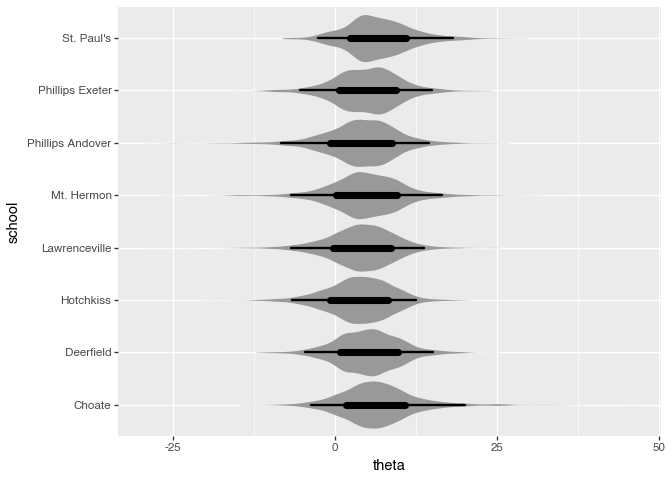
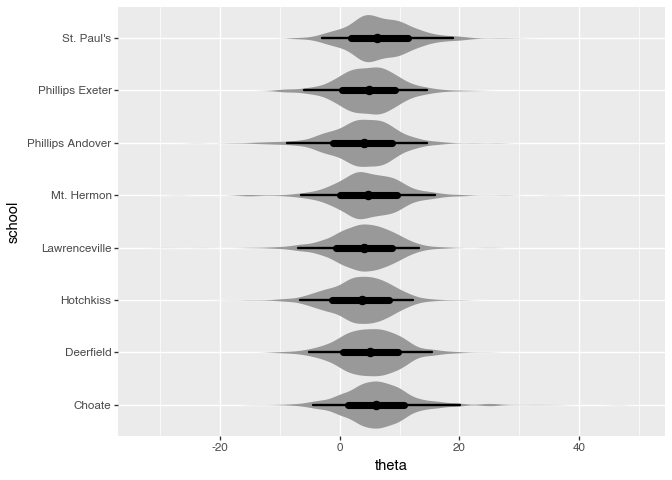
update notebook

diff --git a/notebook.md b/notebook.md
@@ -1,0 +1,264 @@
+# bayestidy demo
+
+``` python
+import arviz as az
+import bayestidy as bt
+from plotnine import *
+```
+
+## Load data
+
+ArviZ ships pre-fitted models. The “eight schools” dataset has a
+hierarchical model with school-level effects `theta`, a shared mean
+`mu`, and scale `tau`.
+
+``` python
+data = az.load_arviz_data("centered_eight")
+```
+
+## Extract tidy draws
+
+`spread_draws` gives one row per draw, with index columns for array
+parameters.
+
+``` python
+draws = bt.spread_draws(data, "theta[school]", "mu", "tau")
+draws.head(10)
+```
+
+<div><style>
+.dataframe > thead > tr,
+.dataframe > tbody > tr {
+  text-align: right;
+  white-space: pre-wrap;
+}
+</style>
+<small>shape: (10, 6)</small>
+
+| .chain | .draw | school             | theta     | mu       | tau      |
+|--------|-------|--------------------|-----------|----------|----------|
+| i64    | i64   | str                | f64       | f64      | f64      |
+| 0      | 0     | "Choate"           | 12.320686 | 7.871796 | 4.72574  |
+| 0      | 0     | "Deerfield"        | 9.905367  | 7.871796 | 4.72574  |
+| 0      | 0     | "Phillips Andover" | 14.951615 | 7.871796 | 4.72574  |
+| 0      | 0     | "Phillips Exeter"  | 11.011485 | 7.871796 | 4.72574  |
+| 0      | 0     | "Hotchkiss"        | 5.579602  | 7.871796 | 4.72574  |
+| 0      | 0     | "Lawrenceville"    | 16.901795 | 7.871796 | 4.72574  |
+| 0      | 0     | "St. Paul's"       | 13.198059 | 7.871796 | 4.72574  |
+| 0      | 0     | "Mt. Hermon"       | 15.061366 | 7.871796 | 4.72574  |
+| 0      | 1     | "Choate"           | 11.285623 | 3.384554 | 3.908994 |
+| 0      | 1     | "Deerfield"        | 9.129324  | 3.384554 | 3.908994 |
+
+</div>
+
+`gather_draws` gives long format — handy for comparing variables.
+
+``` python
+long = bt.gather_draws(data, "mu", "tau")
+long.head(10)
+```
+
+<div><style>
+.dataframe > thead > tr,
+.dataframe > tbody > tr {
+  text-align: right;
+  white-space: pre-wrap;
+}
+</style>
+<small>shape: (10, 4)</small>
+
+| .chain | .draw | .variable | .value    |
+|--------|-------|-----------|-----------|
+| i64    | i64   | str       | f64       |
+| 0      | 0     | "mu"      | 7.871796  |
+| 0      | 1     | "mu"      | 3.384554  |
+| 0      | 2     | "mu"      | 9.100476  |
+| 0      | 3     | "mu"      | 7.304293  |
+| 0      | 4     | "mu"      | 9.879675  |
+| 0      | 5     | "mu"      | 7.042032  |
+| 0      | 6     | "mu"      | 10.378469 |
+| 0      | 7     | "mu"      | 10.060016 |
+| 0      | 8     | "mu"      | 10.425308 |
+| 0      | 9     | "mu"      | 10.810782 |
+
+</div>
+
+## Point estimates and intervals
+
+``` python
+bt.median_qi(draws, "theta", by="school", width=[0.66, 0.95])
+```
+
+<div><style>
+.dataframe > thead > tr,
+.dataframe > tbody > tr {
+  text-align: right;
+  white-space: pre-wrap;
+}
+</style>
+<small>shape: (16, 7)</small>
+
+| school             | theta    | .lower    | .upper    | .width | .point   | .interval |
+|--------------------|----------|-----------|-----------|--------|----------|-----------|
+| str                | f64      | f64       | f64       | f64    | str      | str       |
+| "Choate"           | 6.08171  | 1.590788  | 10.787866 | 0.66   | "median" | "qi"      |
+| "Choate"           | 6.08171  | -3.812485 | 20.063309 | 0.95   | "median" | "qi"      |
+| "Deerfield"        | 5.010779 | 0.729276  | 9.639297  | 0.66   | "median" | "qi"      |
+| "Deerfield"        | 5.010779 | -4.64327  | 15.12579  | 0.95   | "median" | "qi"      |
+| "Phillips Andover" | 4.226613 | -0.755306 | 8.81296   | 0.66   | "median" | "qi"      |
+| …                  | …        | …         | …         | …      | …        | …         |
+| "Lawrenceville"    | 4.136356 | -6.912898 | 13.661674 | 0.95   | "median" | "qi"      |
+| "St. Paul's"       | 6.065121 | 2.223271  | 10.942636 | 0.66   | "median" | "qi"      |
+| "St. Paul's"       | 6.065121 | -2.676971 | 18.19456  | 0.95   | "median" | "qi"      |
+| "Mt. Hermon"       | 4.705673 | 0.040535  | 9.463309  | 0.66   | "median" | "qi"      |
+| "Mt. Hermon"       | 4.705673 | -6.781987 | 16.494705 | 0.95   | "median" | "qi"      |
+
+</div>
+
+``` python
+bt.median_qi(draws, "mu", width=[0.66, 0.95])
+```
+
+<div><style>
+.dataframe > thead > tr,
+.dataframe > tbody > tr {
+  text-align: right;
+  white-space: pre-wrap;
+}
+</style>
+<small>shape: (2, 6)</small>
+
+| mu       | .lower    | .upper    | .width | .point   | .interval |
+|----------|-----------|-----------|--------|----------|-----------|
+| f64      | f64       | f64       | f64    | str      | str       |
+| 4.547775 | 1.099583  | 7.872792  | 0.66   | "median" | "qi"      |
+| 4.547775 | -2.260603 | 10.746161 | 0.95   | "median" | "qi"      |
+
+</div>
+
+## Half-eye plots
+
+The flagship visualization — density slab + point + intervals, directly
+from raw draws.
+
+``` python
+(
+    ggplot(draws, aes(x="theta", y="school", fill="school"))
+    + bt.stat_halfeye(alpha=0.5)
+    + labs(x="theta", y="school")
+)
+```
+
+![](notebook_files/figure-commonmark/cell-8-output-1.png)
+
+## Eye plots
+
+Mirrored density (violin-style) + point + intervals.
+
+``` python
+(
+    ggplot(draws, aes(x="theta", y="school"))
+    + bt.stat_eye()
+    + labs(x="theta", y="school")
+)
+```
+
+![](notebook_files/figure-commonmark/cell-9-output-1.png)
+
+## Point-interval plots
+
+Just the point estimate and nested credible intervals, no density.
+
+``` python
+(
+    ggplot(draws, aes(x="theta", y="school"))
+    + bt.stat_pointinterval()
+    + labs(x="theta", y="school")
+)
+```
+
+![](notebook_files/figure-commonmark/cell-10-output-1.png)
+
+## Interval plots
+
+Nested intervals only.
+
+``` python
+(
+    ggplot(draws, aes(x="theta", y="school"))
+    + bt.stat_interval()
+    + labs(x="theta", y="school")
+)
+```
+
+![](notebook_files/figure-commonmark/cell-11-output-1.png)
+
+## Pre-summarized data with geom_pointinterval
+
+If you’ve already computed summaries with `point_interval`, use the geom
+variants directly.
+
+``` python
+summary = bt.median_qi(draws, "theta", by="school", width=[0.66, 0.95])
+summary
+```
+
+<div><style>
+.dataframe > thead > tr,
+.dataframe > tbody > tr {
+  text-align: right;
+  white-space: pre-wrap;
+}
+</style>
+<small>shape: (16, 7)</small>
+
+| school             | theta    | .lower    | .upper    | .width | .point   | .interval |
+|--------------------|----------|-----------|-----------|--------|----------|-----------|
+| str                | f64      | f64       | f64       | f64    | str      | str       |
+| "Choate"           | 6.08171  | 1.590788  | 10.787866 | 0.66   | "median" | "qi"      |
+| "Choate"           | 6.08171  | -3.812485 | 20.063309 | 0.95   | "median" | "qi"      |
+| "Deerfield"        | 5.010779 | 0.729276  | 9.639297  | 0.66   | "median" | "qi"      |
+| "Deerfield"        | 5.010779 | -4.64327  | 15.12579  | 0.95   | "median" | "qi"      |
+| "Phillips Andover" | 4.226613 | -0.755306 | 8.81296   | 0.66   | "median" | "qi"      |
+| …                  | …        | …         | …         | …      | …        | …         |
+| "Lawrenceville"    | 4.136356 | -6.912898 | 13.661674 | 0.95   | "median" | "qi"      |
+| "St. Paul's"       | 6.065121 | 2.223271  | 10.942636 | 0.66   | "median" | "qi"      |
+| "St. Paul's"       | 6.065121 | -2.676971 | 18.19456  | 0.95   | "median" | "qi"      |
+| "Mt. Hermon"       | 4.705673 | 0.040535  | 9.463309  | 0.66   | "median" | "qi"      |
+| "Mt. Hermon"       | 4.705673 | -6.781987 | 16.494705 | 0.95   | "median" | "qi"      |
+
+</div>
+
+``` python
+(
+    ggplot(summary, aes(x="theta", xmin=".lower", xmax=".upper", y="school"))
+    + bt.geom_pointinterval()
+    + labs(x="theta", y="school")
+)
+```
+
+![](notebook_files/figure-commonmark/cell-13-output-1.png)
+
+## Scalar parameters
+
+``` python
+scalars= draws.select("mu", "tau")
+
+(
+    ggplot(scalars, aes(x="mu"))
+    + bt.stat_halfeye()
+    + labs(x="mu")
+)
+```
+
+![](notebook_files/figure-commonmark/cell-14-output-1.png)
+
+``` python
+(
+    ggplot(scalars, aes(x="tau"))
+    + bt.stat_halfeye()
+    + labs(x="tau")
+)
+```
+
+![](notebook_files/figure-commonmark/cell-15-output-1.png)
